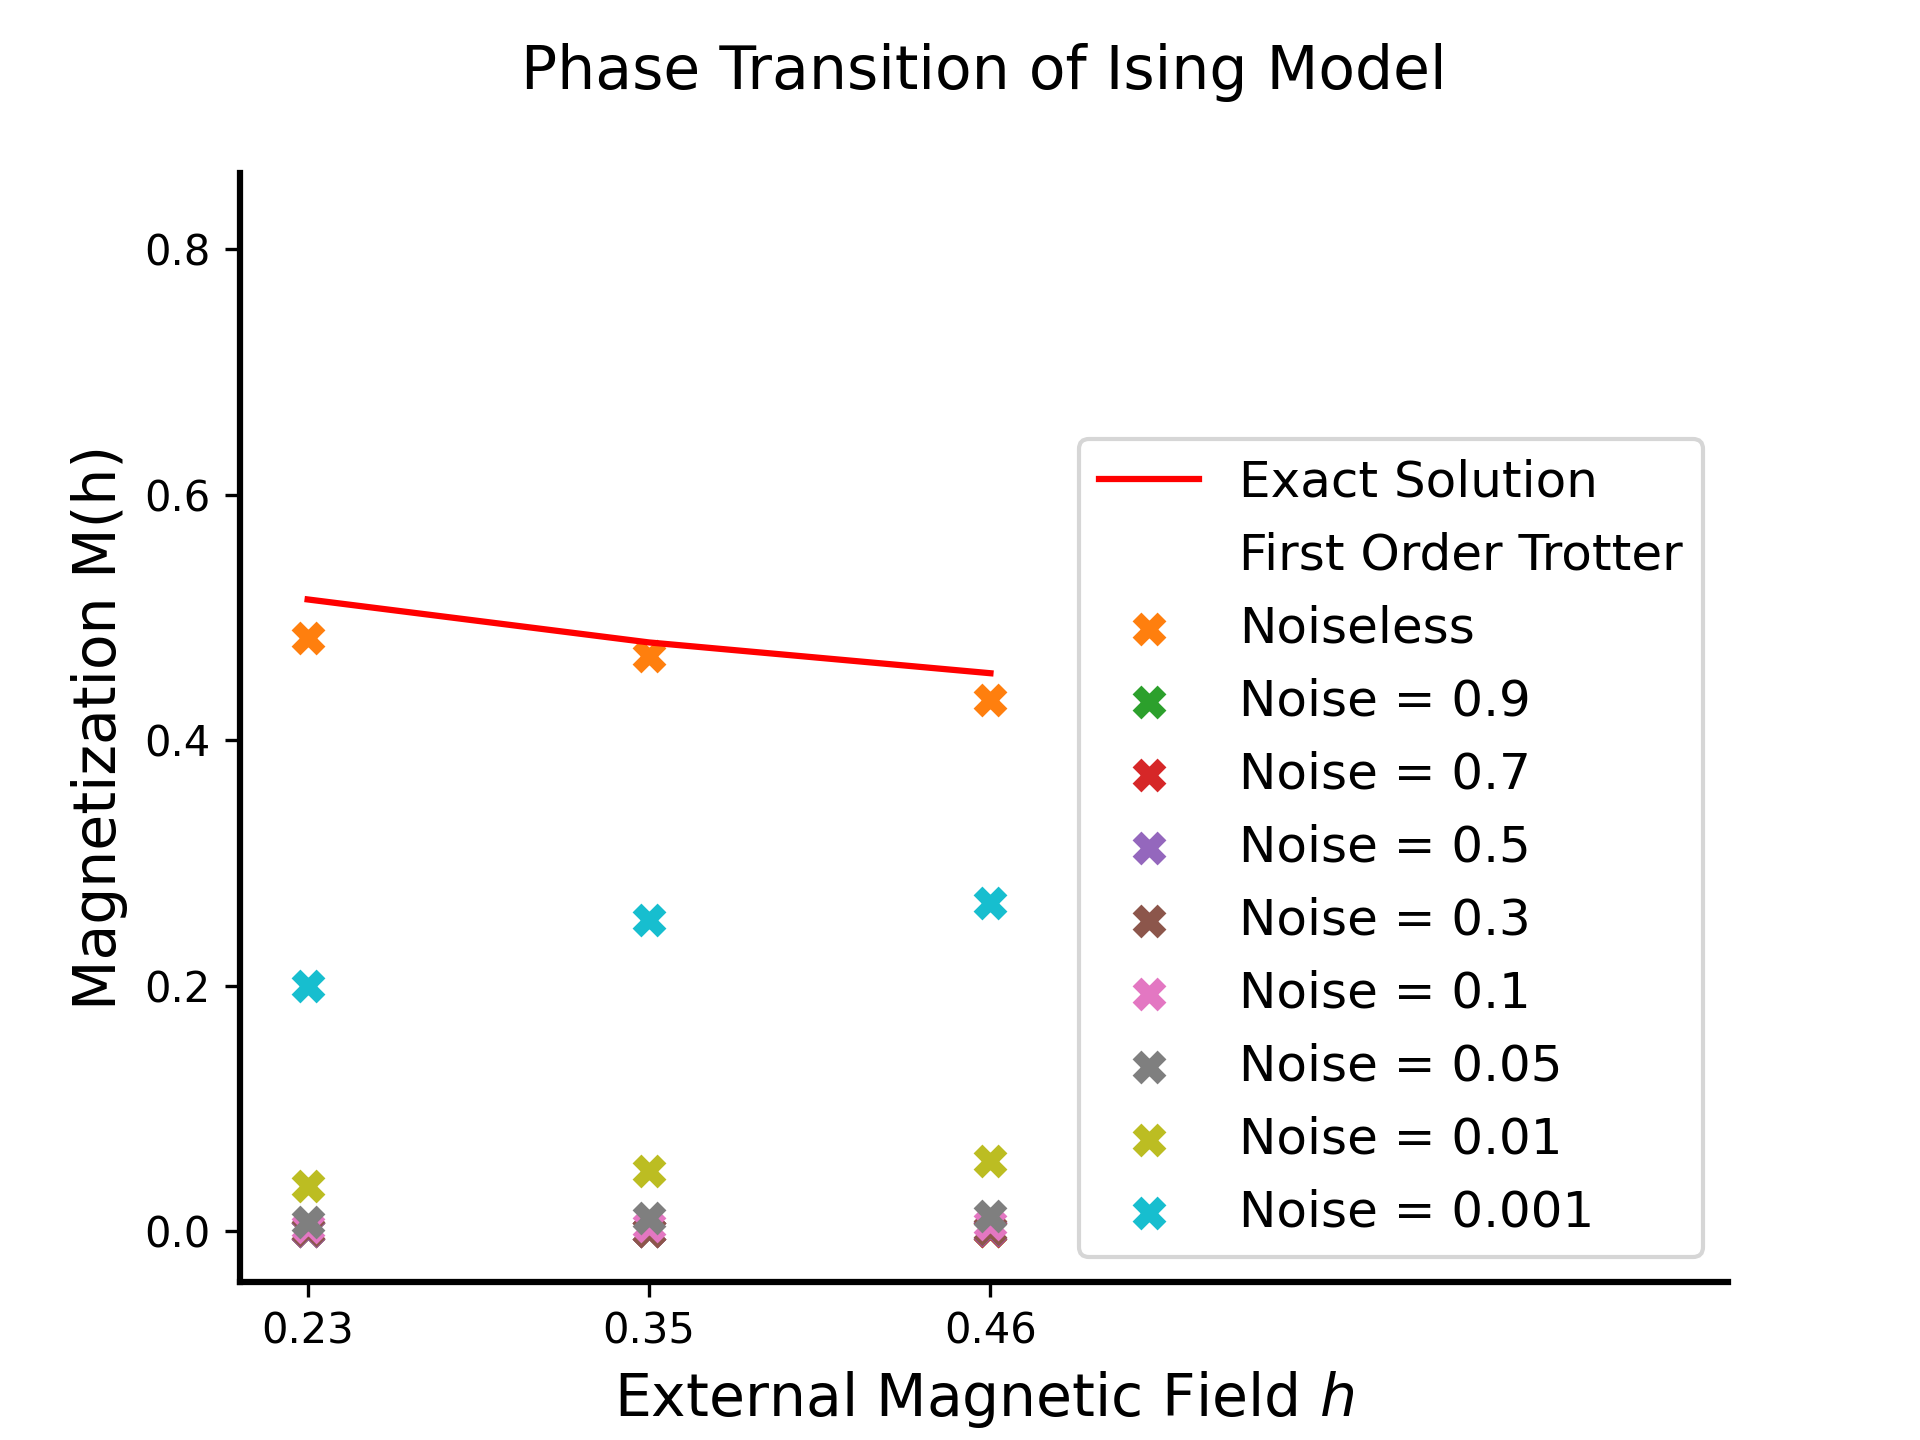
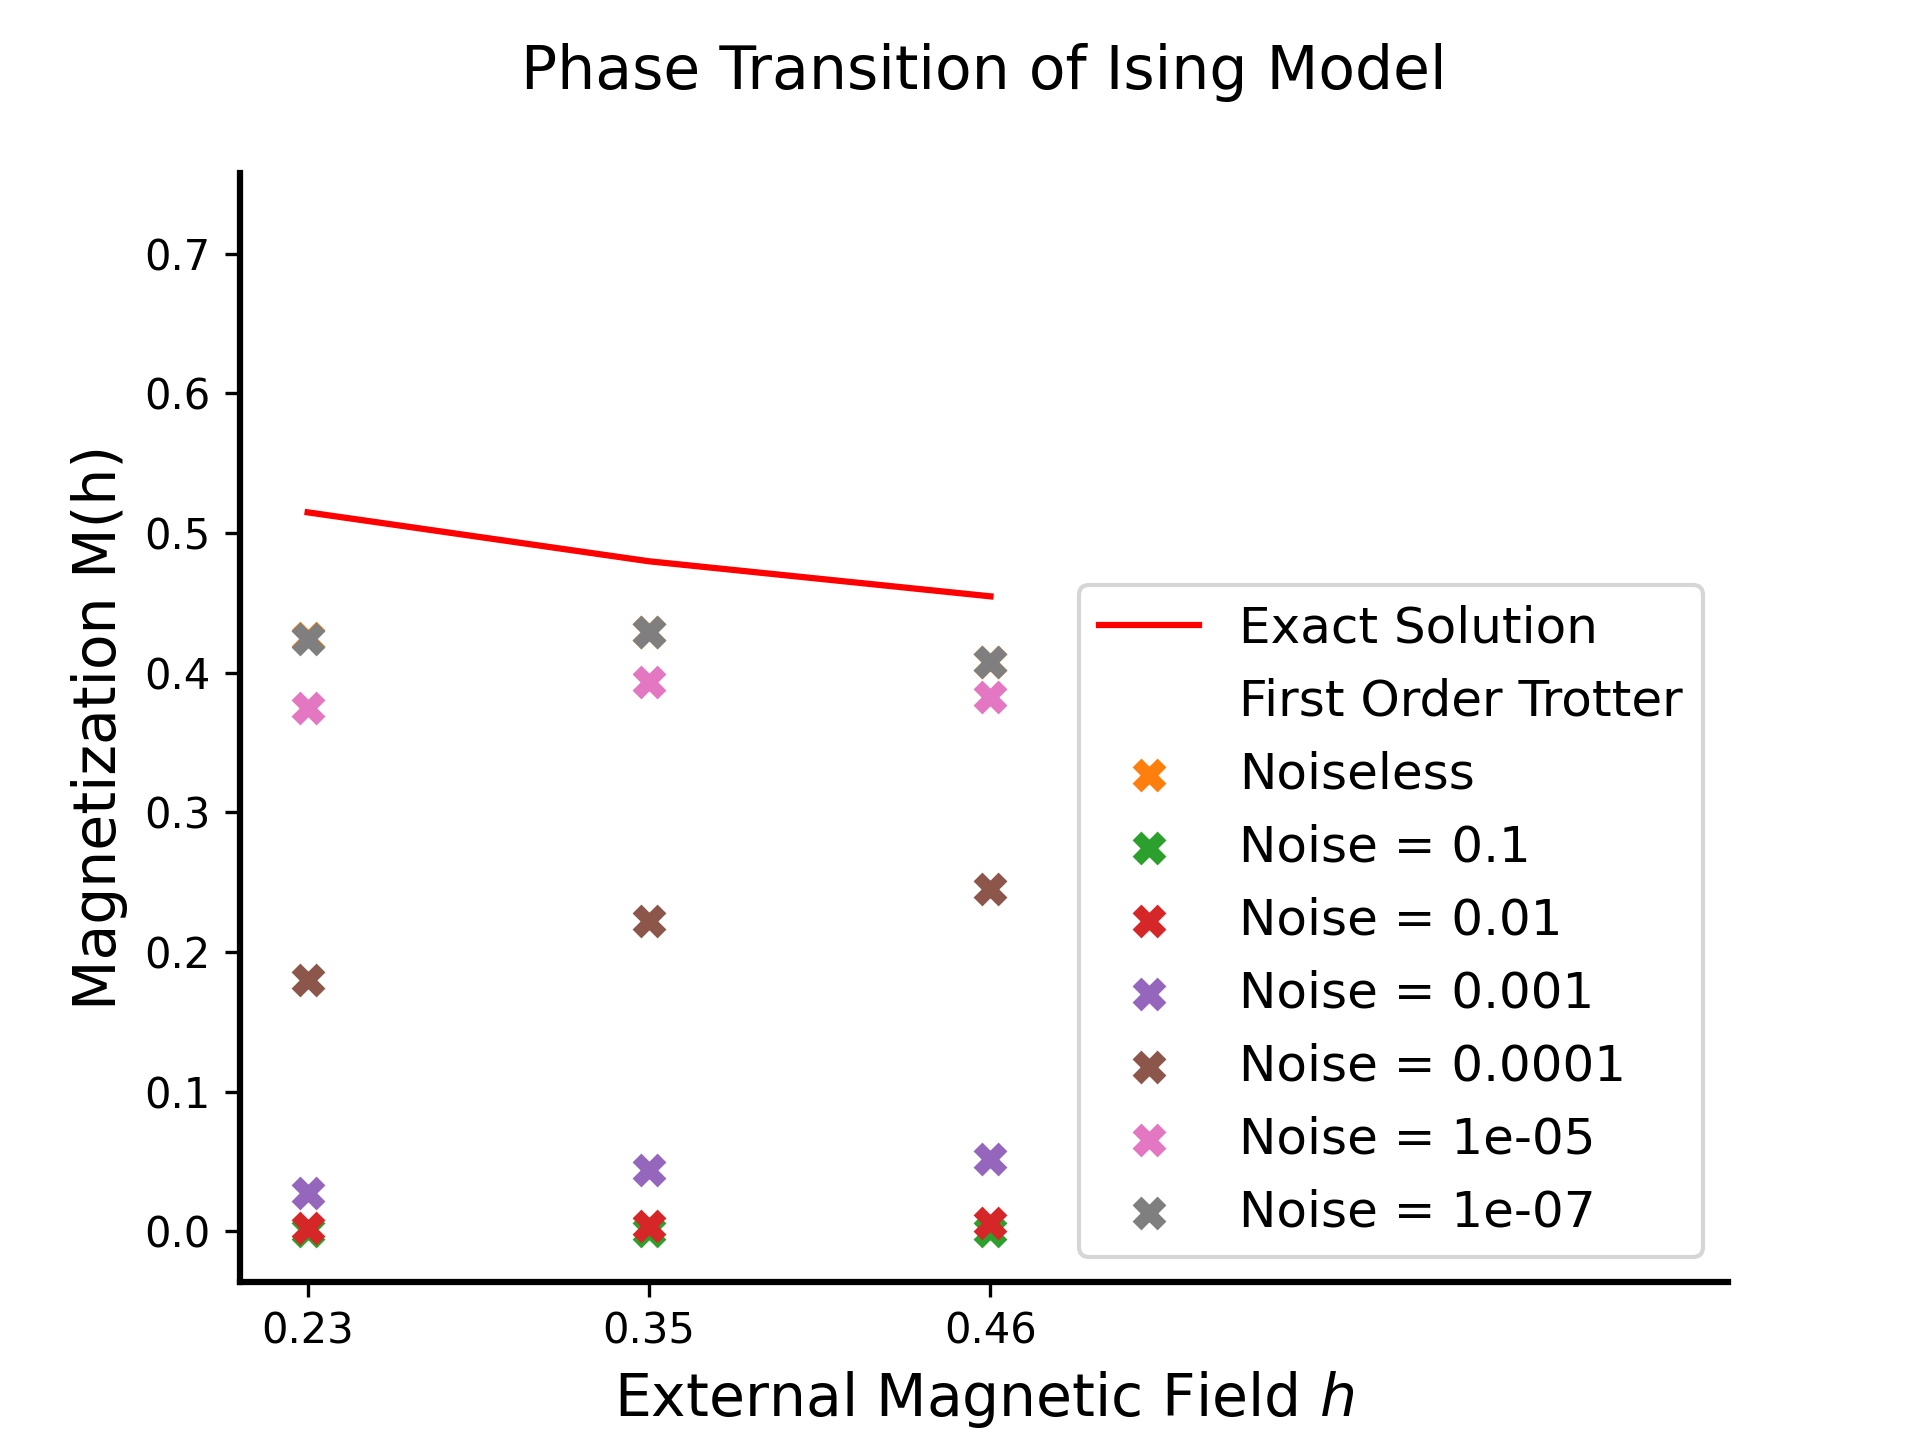
results

diff --git a/ising/groundstate/simulation/noise/lcutaylor.py b/ising/groundstate/simulation/noise/lcutaylor.py
@@ -119,7 +119,10 @@ class LCUNoisyTaylor:
 
                 for ind, noise in enumerate(self.noise_lst):
                     final_rho = np.outer(psi_final, psi_final.conj())
-                    final_rho = noise(final_rho)
+
+                    depth = self.synth.circuit_depth(self.lcu_times[sample[0]]) + self.synth.circuit_depth(self.lcu_times[sample[1]])
+                    final_rho = noise(final_rho, depth)
+                    # final_rho = noise(final_rho)
                     result = np.trace(np.abs(self.run_obs @ final_rho))
                     results[ind].append(result)
 

diff --git a/ising/simulation/taylor/taylor.py b/ising/simulation/taylor/taylor.py
@@ -214,6 +214,11 @@ class Taylor:
         npt.assert_almost_equal(np.sum(np.abs(final_psi) ** 2), 1)
         return final_psi
 
+    def circuit_depth(self, time:float) -> int:
+        t_bar = time * self.beta
+        # For t_bar < 1, r is too small to get accurate results.
+        return max(20, int(10 * np.ceil(t_bar) ** 2))
+
     def apply_lcu(self, time, final_psi, control_val):
         """
         Samples V from the LCU and applies it to `psi_init` with given

diff --git a/ising/simulation/trotter/grouped_lie.py b/ising/simulation/trotter/grouped_lie.py
@@ -217,7 +217,8 @@ class GroupedLieCircuit:
         )
 
     def circuit_depth(self, time: float) -> int:
-        return trotter_reps(self.num_qubits, self.h_val, time, self.error)
+        l = len(self.ham.paulis)
+        return l * trotter_reps(self.num_qubits, self.h_val, time, self.error)
 
     def matrix(self, time: float, reps: int = -1) -> NDArray:
         if self.ham_subbed is None:
